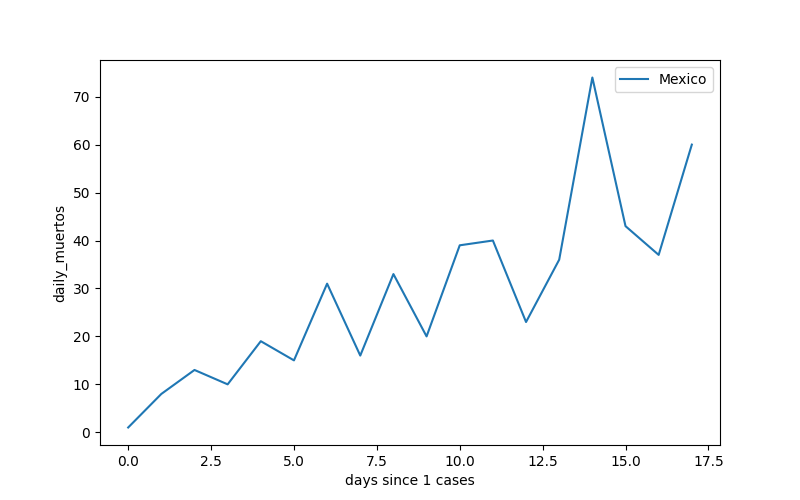
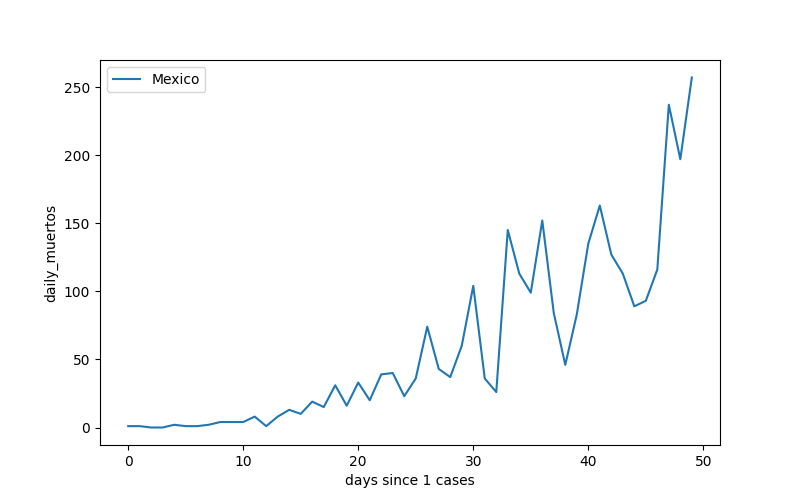
Usar datos de mariorz para analisis de series de tiempo

diff --git a/covid_analysis.py b/covid_analysis.py
@@ -24,11 +24,14 @@ def get_new_per_day(df):
     df_new_per_day.index = df.index[1:]
     return df_new_per_day
 
-def load_collection(tables, get_function):
+def load_collection(tables, get_function, tables_names=None):
     collection = {}
-    for dset in tables:
-        collection[dset]= get_function(dset)
-        collection[f"daily_{dset}"] = get_new_per_day(collection[dset])
+    if tables_names is None:
+        tables_names = tables
+    for index, dset in enumerate(tables):
+        t_name = tables_names[index]
+        collection[t_name] = get_function(dset)
+        collection[f"daily_{t_name}"] = get_new_per_day(collection[t_name])
     return collection
 
 def calculate_new_last_period(df_new_per_day, PERIOD=7):
@@ -170,21 +173,35 @@ def get_johns_hopkins(kind='confirmed'):
 def load_johns_hopkins():
     return load_collection(JH_DATASETS, get_johns_hopkins)
 
-SINAVE_DATASETS = ['confirmados', 'probables', 'muertos', 'descartados']
-
-def transform_sinave_eduardofv(df):
-    df = df.groupby('Estado').sum()
+def transform_timeseries(df, state_column='Estado', date_format='%Y/%m/%d'):
+    df = df.groupby(state_column).sum()
     df = df.transpose()
-    df.index = pd.to_datetime(df.index, format='%Y/%m/%d')
+    df.index = pd.to_datetime(df.index, format=date_format)
     df.index.name = "Date"
     return df#[columns]
+
+SINAVE_DATASETS = ['confirmados', 'probables', 'muertos', 'descartados']
 
 def get_sinave_eduardofv(kind="confirmados"):
     assert kind in SINAVE_DATASETS
     url = f"https://raw.githubusercontent.com/eduardofv/covid/master/data/sinave_agregados/series_tiempo/serie_tiempo_{kind}.csv"
     df = pd.read_csv(url)
-    df = transform_sinave_eduardofv(df)
+    df = transform_timeseries(df)
     return df
 
 def load_sinave():
     return load_collection(SINAVE_DATASETS, get_sinave_eduardofv)
+
+MARIORZ_DATASETS = ['confirmed', 'suspects', 'deaths', 'negatives']
+
+def get_mariorz(kind):
+    url = f"https://raw.githubusercontent.com/mariorz/covid19-mx-time-series/master/data/covid19_{kind}_mx.csv"
+    df = pd.read_csv(url)
+    df = transform_timeseries(df, date_format='%d-%m-%Y')
+    return df
+
+def load_mariorz():
+    return load_collection(
+        MARIORZ_DATASETS,
+        get_mariorz,
+        tables_names=SINAVE_DATASETS)

diff --git a/generate_summary.py b/generate_summary.py
@@ -11,7 +11,8 @@ estados_analisis = ["Ciudad de México", "Nuevo León", "Jalisco", "Queretaro"]
 ca.OUTPUT_TYPE = "markdown"
 
 res = {}
-estados = ca.load_sinave()
+estados = ca.load_mariorz()
+print(estados)
 mexico = {}
 for ds_name, ds in estados.items():
     mexico[ds_name] = pd.DataFrame({'Mexico': ds.sum(axis=1)})

diff --git a/test.md b/test.md
@@ -1,0 +1,141 @@
+# Datos sobre COVID-19 en México al 07-05-2020
+
+## Resumen de Resultados al 07-05-2020
+
+- **Casos confirmados:** 29616, 1982 más que el día anterior
+- **Fallecimientos:** 2961, 257 más que el día anterior
+
+## Nacional
+
+### Confirmados
+
+#### Acumulados:
+
+| Date                |   Mexico |
+|:--------------------|---------:|
+| 2020-04-24 00:00:00 |    12872 |
+| 2020-04-25 00:00:00 |    13842 |
+| 2020-04-26 00:00:00 |    14677 |
+| 2020-04-27 00:00:00 |    15529 |
+| 2020-04-28 00:00:00 |    16752 |
+| 2020-04-29 00:00:00 |    17799 |
+| 2020-04-30 00:00:00 |    19224 |
+| 2020-05-01 00:00:00 |    20739 |
+| 2020-05-02 00:00:00 |    22088 |
+| 2020-05-03 00:00:00 |    23471 |
+| 2020-05-04 00:00:00 |    24905 |
+| 2020-05-05 00:00:00 |    26025 |
+| 2020-05-06 00:00:00 |    27634 |
+| 2020-05-07 00:00:00 |    29616 |
+
+![img](img/mex_confirmados_ac.png)
+
+#### Diarios:
+
+| Date                |   Mexico |
+|:--------------------|---------:|
+| 2020-04-24 00:00:00 |     1239 |
+| 2020-04-25 00:00:00 |      970 |
+| 2020-04-26 00:00:00 |      835 |
+| 2020-04-27 00:00:00 |      852 |
+| 2020-04-28 00:00:00 |     1223 |
+| 2020-04-29 00:00:00 |     1047 |
+| 2020-04-30 00:00:00 |     1425 |
+| 2020-05-01 00:00:00 |     1515 |
+| 2020-05-02 00:00:00 |     1349 |
+| 2020-05-03 00:00:00 |     1383 |
+| 2020-05-04 00:00:00 |     1434 |
+| 2020-05-05 00:00:00 |     1120 |
+| 2020-05-06 00:00:00 |     1609 |
+| 2020-05-07 00:00:00 |     1982 |
+
+![img](img/mex_confirmados_dia.png)
+
+### Fallecimientos
+
+#### Acumulados:
+
+| Date                |   Mexico |
+|:--------------------|---------:|
+| 2020-04-24 00:00:00 |     1221 |
+| 2020-04-25 00:00:00 |     1305 |
+| 2020-04-26 00:00:00 |     1351 |
+| 2020-04-27 00:00:00 |     1434 |
+| 2020-04-28 00:00:00 |     1569 |
+| 2020-04-29 00:00:00 |     1732 |
+| 2020-04-30 00:00:00 |     1859 |
+| 2020-05-01 00:00:00 |     1972 |
+| 2020-05-02 00:00:00 |     2061 |
+| 2020-05-03 00:00:00 |     2154 |
+| 2020-05-04 00:00:00 |     2270 |
+| 2020-05-05 00:00:00 |     2507 |
+| 2020-05-06 00:00:00 |     2704 |
+| 2020-05-07 00:00:00 |     2961 |
+
+![img](img/mex_muertos_ac.png)
+
+#### Diarios:
+
+| Date                |   Mexico |
+|:--------------------|---------:|
+| 2020-04-24 00:00:00 |      152 |
+| 2020-04-25 00:00:00 |       84 |
+| 2020-04-26 00:00:00 |       46 |
+| 2020-04-27 00:00:00 |       83 |
+| 2020-04-28 00:00:00 |      135 |
+| 2020-04-29 00:00:00 |      163 |
+| 2020-04-30 00:00:00 |      127 |
+| 2020-05-01 00:00:00 |      113 |
+| 2020-05-02 00:00:00 |       89 |
+| 2020-05-03 00:00:00 |       93 |
+| 2020-05-04 00:00:00 |      116 |
+| 2020-05-05 00:00:00 |      237 |
+| 2020-05-06 00:00:00 |      197 |
+| 2020-05-07 00:00:00 |      257 |
+
+![img](img/mex_muertos_dia.png)
+
+### Pruebas realizadas
+
+#### Acumuladas:
+
+| Date                |   Mexico |
+|:--------------------|---------:|
+| 2020-04-24 00:00:00 |    62334 |
+| 2020-04-25 00:00:00 |    65500 |
+| 2020-04-26 00:00:00 |    67635 |
+| 2020-04-27 00:00:00 |    71103 |
+| 2020-04-28 00:00:00 |    77005 |
+| 2020-04-29 00:00:00 |    81912 |
+| 2020-04-30 00:00:00 |    87372 |
+| 2020-05-01 00:00:00 |    91188 |
+| 2020-05-02 00:00:00 |    93791 |
+| 2020-05-03 00:00:00 |    95839 |
+| 2020-05-04 00:00:00 |   100041 |
+| 2020-05-05 00:00:00 |   105664 |
+| 2020-05-06 00:00:00 |   110994 |
+| 2020-05-07 00:00:00 |   117211 |
+
+![img](img/mex_pruebas_ac.png)
+
+#### Diarios:
+
+| Date                |   Mexico |
+|:--------------------|---------:|
+| 2020-04-24 00:00:00 |     3449 |
+| 2020-04-25 00:00:00 |     3166 |
+| 2020-04-26 00:00:00 |     2135 |
+| 2020-04-27 00:00:00 |     3468 |
+| 2020-04-28 00:00:00 |     5902 |
+| 2020-04-29 00:00:00 |     4907 |
+| 2020-04-30 00:00:00 |     5460 |
+| 2020-05-01 00:00:00 |     3816 |
+| 2020-05-02 00:00:00 |     2603 |
+| 2020-05-03 00:00:00 |     2048 |
+| 2020-05-04 00:00:00 |     4202 |
+| 2020-05-05 00:00:00 |     5623 |
+| 2020-05-06 00:00:00 |     5330 |
+| 2020-05-07 00:00:00 |     6217 |
+
+![img](img/mex_pruebas_dia.png)
+
